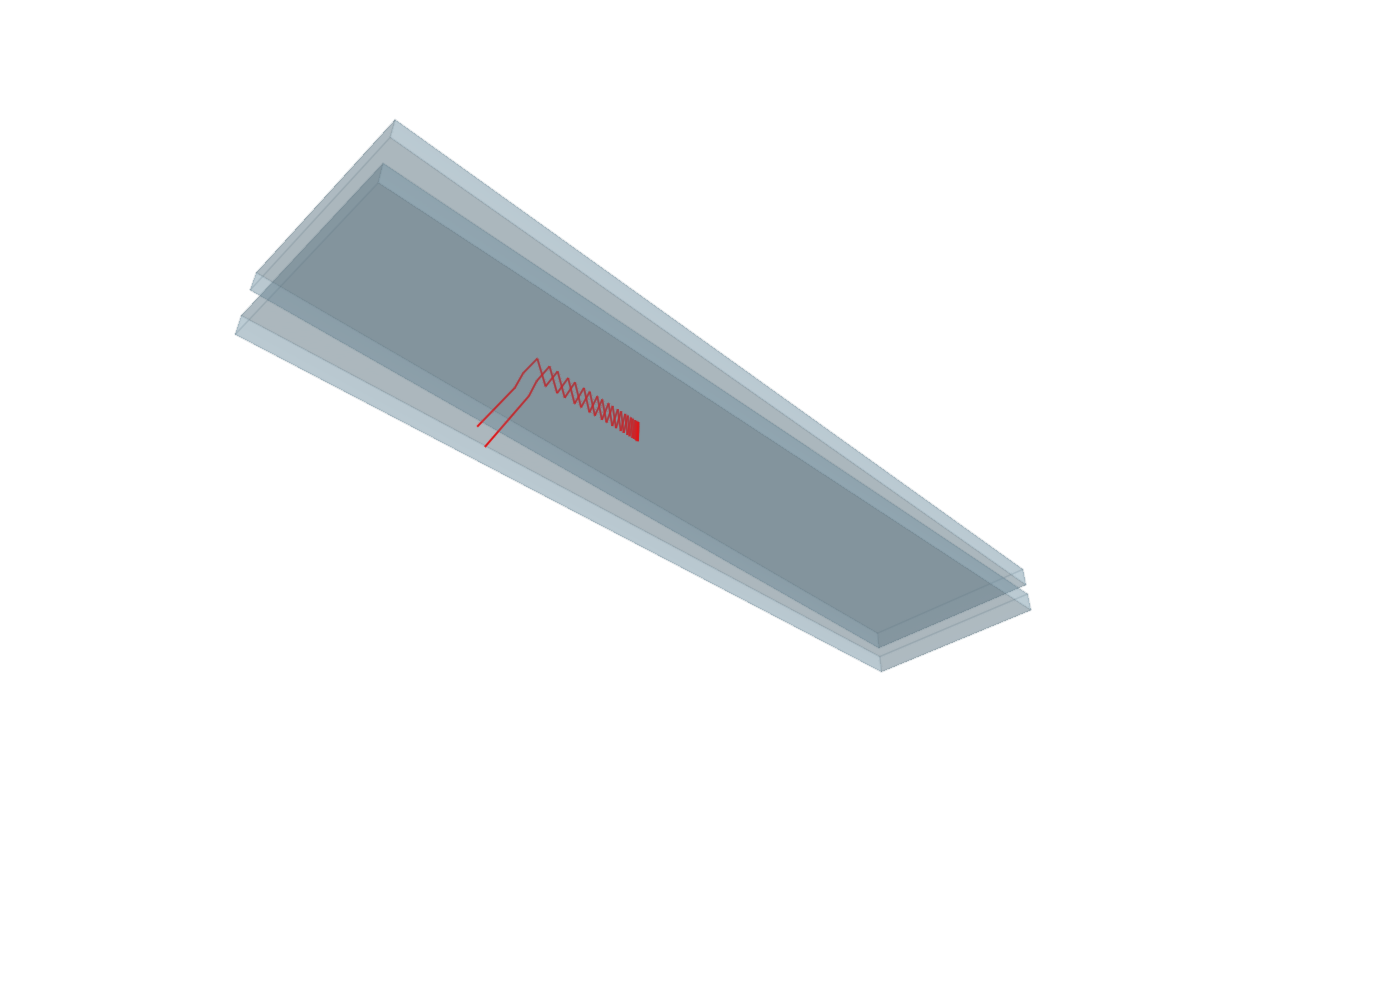
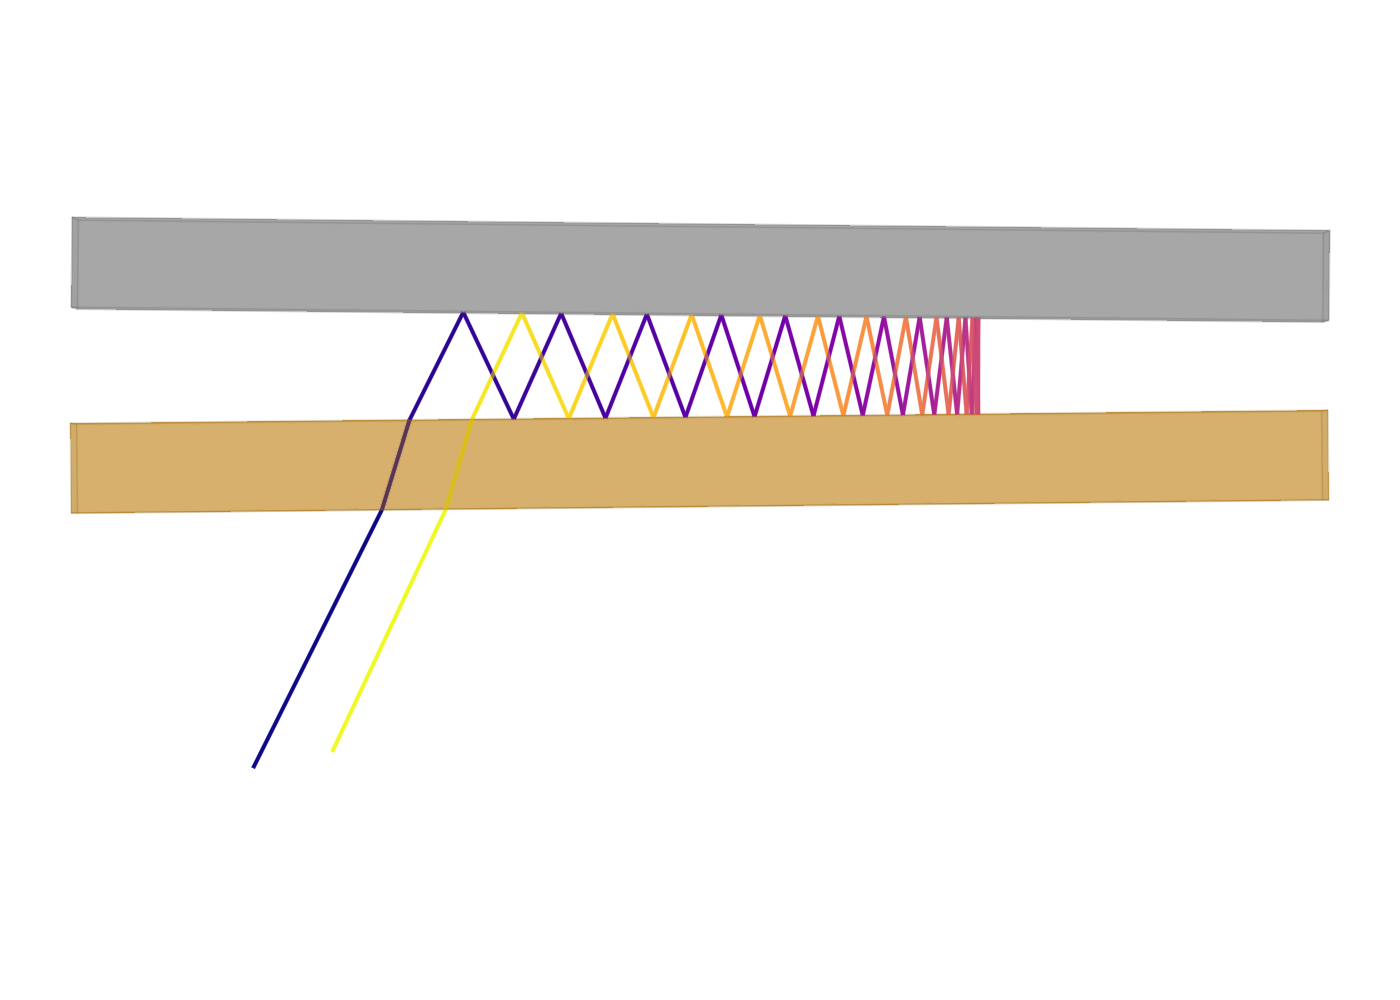
WOLIT example: a closer view of the wedge, rays colored along the path
The 14 mm plates are tilted about their points at the origin, so the wedge is unchanged.
The camera keeps its view: Makie recenters an LScene on save unless centering is off.

diff --git a/docs/src/examples/wolit_trap.md b/docs/src/examples/wolit_trap.md
@@ -46,7 +46,8 @@ degrees.
 
 ## The wedge
 
-Two glass plates form the wedge, 1 mm apart at the origin and tilted by ±0.6°. The lower plate carries an
+Two glass plates form the wedge, 1 mm apart at the origin and tilted by ±0.6° about it; their
+14 mm cover the part of the wedge that the beam uses. The lower plate carries an
 anti-reflection coating on its outer face and the filter on its inner face, the upper plate a mirror on
 its inner face. The faces of a plate are addressed by their outward normals in the local frame of the
 plate, see [Coatings](@ref).
@@ -55,16 +56,16 @@ plate, see [Coatings](@ref).
 α = deg2rad(1.2)   # wedge angle
 glass = ConstantRefractiveIndex(1.5)
 
-filter_plate = RectangularCompensatorPlate(40mm, 10mm, 1mm, glass)
+filter_plate = RectangularCompensatorPlate(14mm, 6mm, 1mm, glass)
 surface_model!(filter_plate, FlatFace([0, -1, 0]), AntireflectionCoating())
 surface_model!(filter_plate, FlatFace([0, 1, 0]), longpass)
-translate3d!(filter_plate, [0, -1mm, 0])
-zrotate3d!(filter_plate, α / 2)
+translate3d!(filter_plate, [-7mm, -1mm, 0])
+rotate3d!(filter_plate, [0, 0, 1], α / 2, [0, -1mm, 0])   # about its point at x = 0
 
-mirror_plate = RectangularCompensatorPlate(40mm, 10mm, 1mm, glass)
+mirror_plate = RectangularCompensatorPlate(14mm, 6mm, 1mm, glass)
 surface_model!(mirror_plate, FlatFace([0, -1, 0]), MirrorCoating())
-translate3d!(mirror_plate, [0, 1mm, 0])
-zrotate3d!(mirror_plate, -α / 2)
+translate3d!(mirror_plate, [-7mm, 1mm, 0])
+rotate3d!(mirror_plate, [0, 0, 1], -α / 2, [0, 1mm, 0])
 
 system = System([filter_plate, mirror_plate])
 nothing # hide
@@ -72,19 +73,32 @@ nothing # hide
 
 ## Trapping the beam
 
-The beam enters at 26.5°, just above the edge of the filter.
+The beam enters at 26.5°, just above the edge of the filter. [`render!`](@ref) draws each ray of the
+path in the color of its place along the path: the beam runs towards the apex of the wedge, turns
+there and returns, until the filter lets it out.
 
 ```@example wolit
 θ_in = deg2rad(26.5)
 beam = Beam([-12mm, -4mm, 0], [sin(θ_in), cos(θ_in), 0], λ)
 solve_system!(system, beam; r_max = 400)
 
-fig = Figure(size = (1000, 360))
+fig = Figure(size = (900, 400))
 ax = LScene(fig[1, 1]; show_axis = false)
-render!(ax, system)
-render!(ax, beam; color = :red, flen = 4mm)
-set_view(ax, [-8mm, 0.5mm, 14mm], [-8mm, 0.5mm, 0], [0, 1, 0]) # hide
+render!(ax, filter_plate; color = :orange, transparency = true, alpha = 0.35)
+render!(ax, mirror_plate; color = :silver, transparency = true, alpha = 0.5)
+path = rays(beam)
+colors = Makie.cgrad(:plasma)[range(0, 1; length = length(path))]
+for (ray, color) in zip(path, colors)
+    render!(ax, ray; color, flen = 3mm, linewidth = 2)
+end
+text!(ax, Point3f(-13.5mm, 2.4mm, 0); text = "mirror", fontsize = 18)
+text!(ax, Point3f(-6mm, -2.6mm, 0); text = "edge filter", fontsize = 18)
+text!(ax, Point3f(-1.5mm, 0.3mm, 0); text = "apex →", fontsize = 18)
+ax.scene.camera_controls.settings.center[] = false # hide
+set_view(ax, [-7.5mm, -1mm, 600mm], [-7.5mm, -1mm, 0], [0, 1, 0]) # hide
 set_orthographic(ax) # hide
+Colorbar(fig[1, 2]; colormap = :plasma, limits = (1, length(path)), label = "ray along the path",
+    height = Relative(0.6))
 fig
 ```
 
